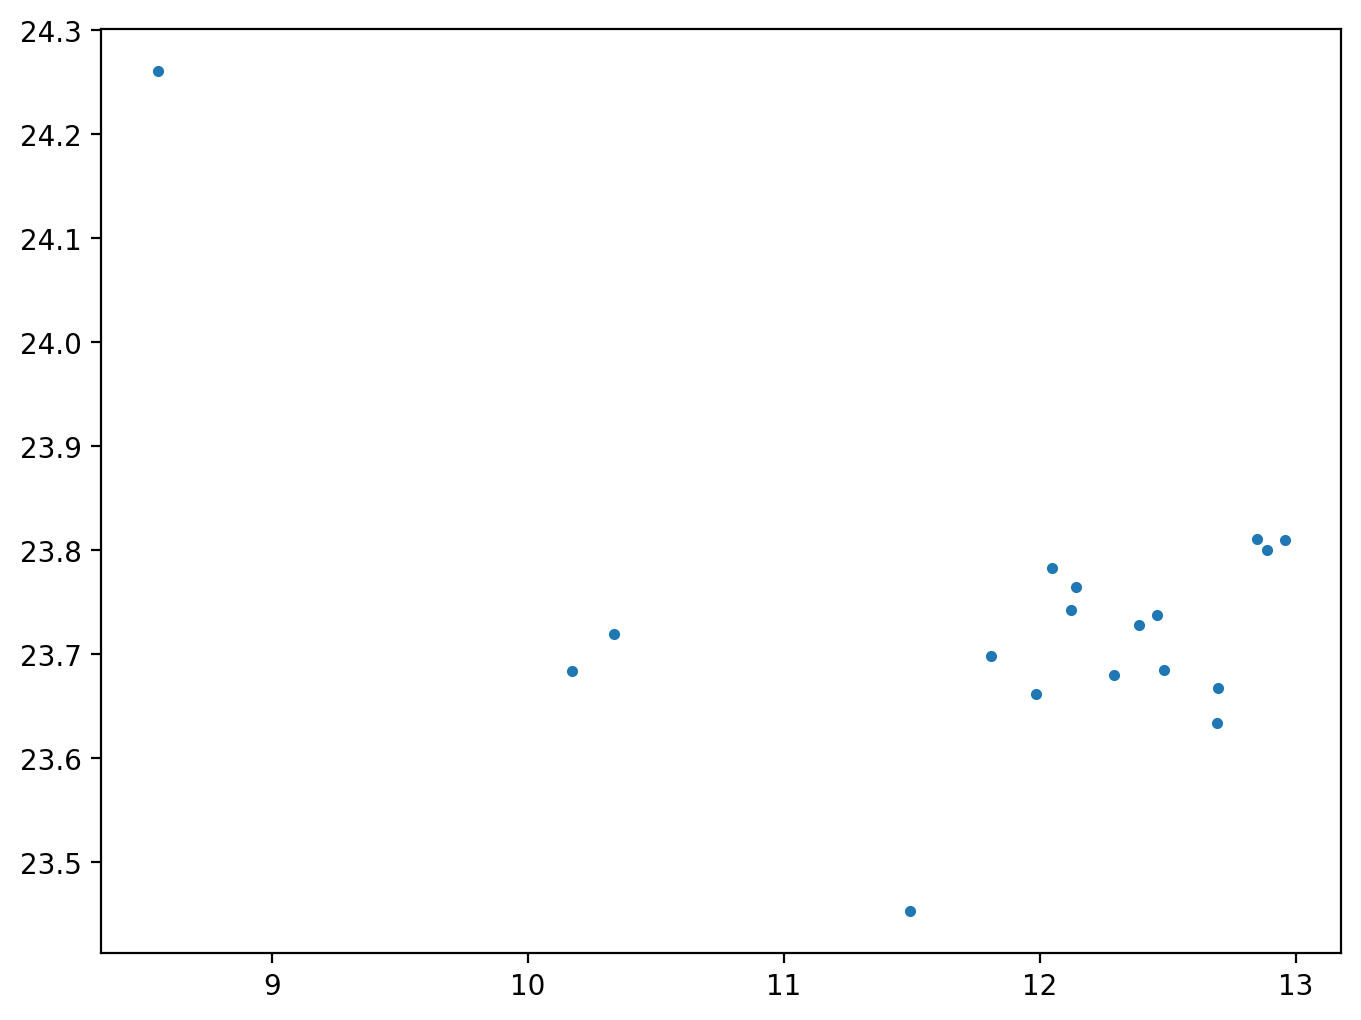
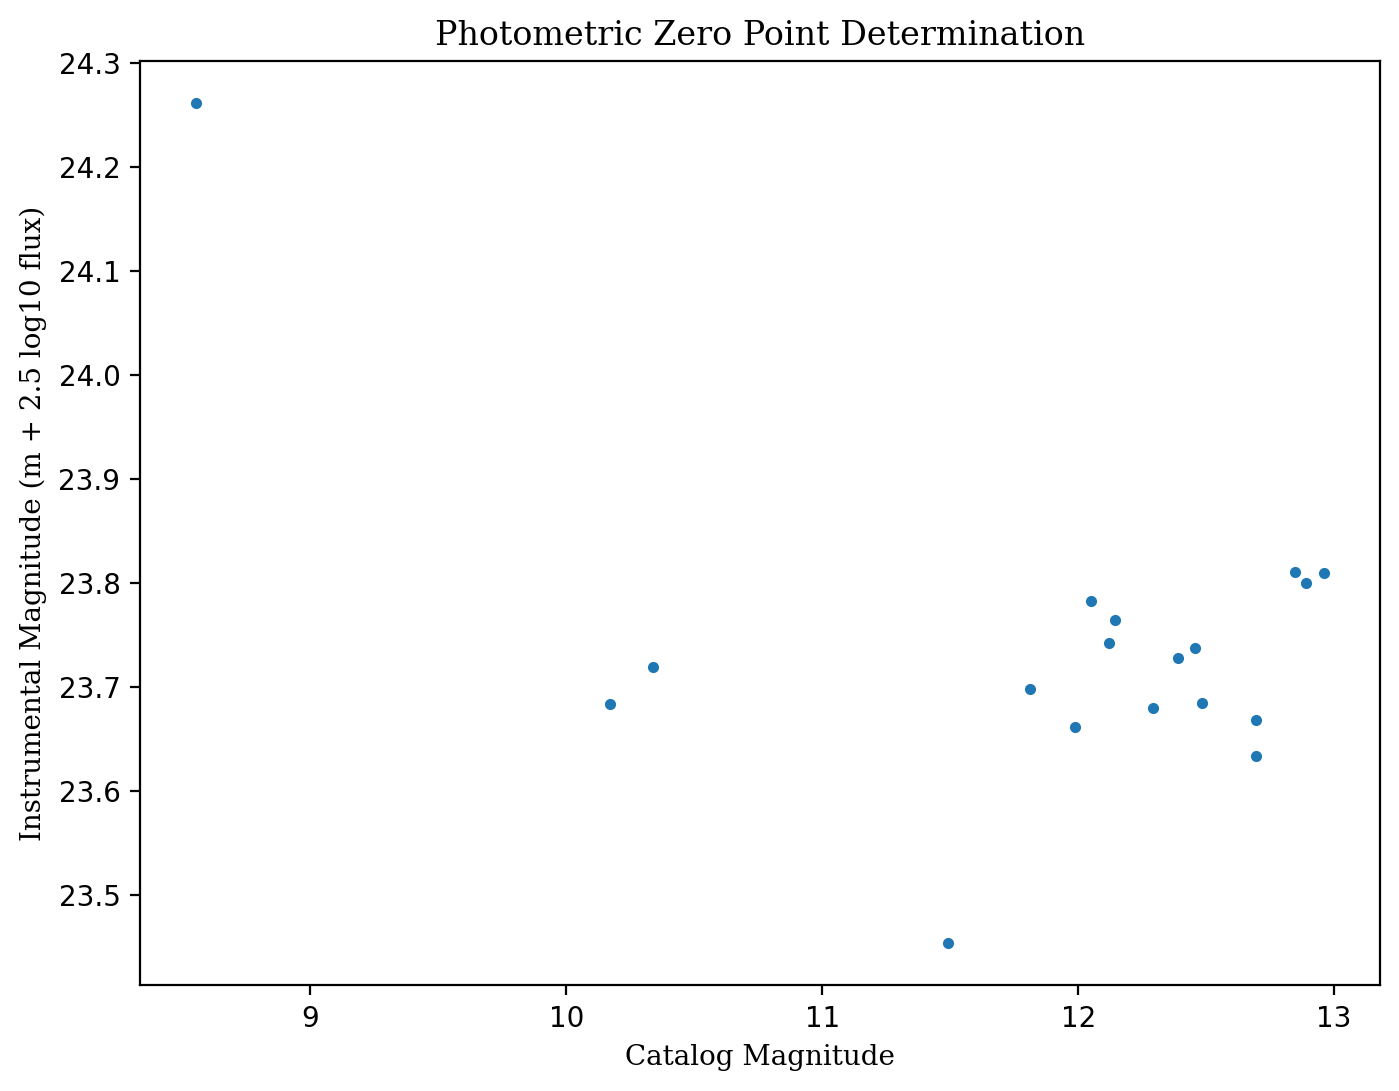
added plots for Photometric Zero Point Determination

diff --git a/src/photometry.py b/src/photometry.py
@@ -44,7 +44,10 @@ def calc_zero_point(mag: table.Table, flux: table.Table, sigma: float=1.):
     zps = mag + 2.5*np.log10(flux)
     zp_mean, _, _ = sigma_clipped_stats(zps, sigma=sigma)
     if calc_zero_point._call_count % 10 == 0:
-        plot.plot(data=[mag, mag + 2.5*np.log10(flux)], marker=["."], linestyle=["None"], fname = repo_root / "figs" / f"zp_debug_{calc_zero_point._call_count:03d}.png", showPlot=False)
+        fname = repo_root / "figs" / f"zp_debug_{calc_zero_point._call_count:03d}.png"
+        plot.plot(data=[mag, mag + 2.5*np.log10(flux)], marker=["."], linestyle=["None"], 
+            title="Photometric Zero Point Determination", xlabel="Catalog Magnitude", 
+            ylabel="Instrumental Magnitude (m + 2.5 log10 flux)", fname = fname, showPlot=False)
     return zp_mean
 
 def calc_magnitude(flux, zp):
